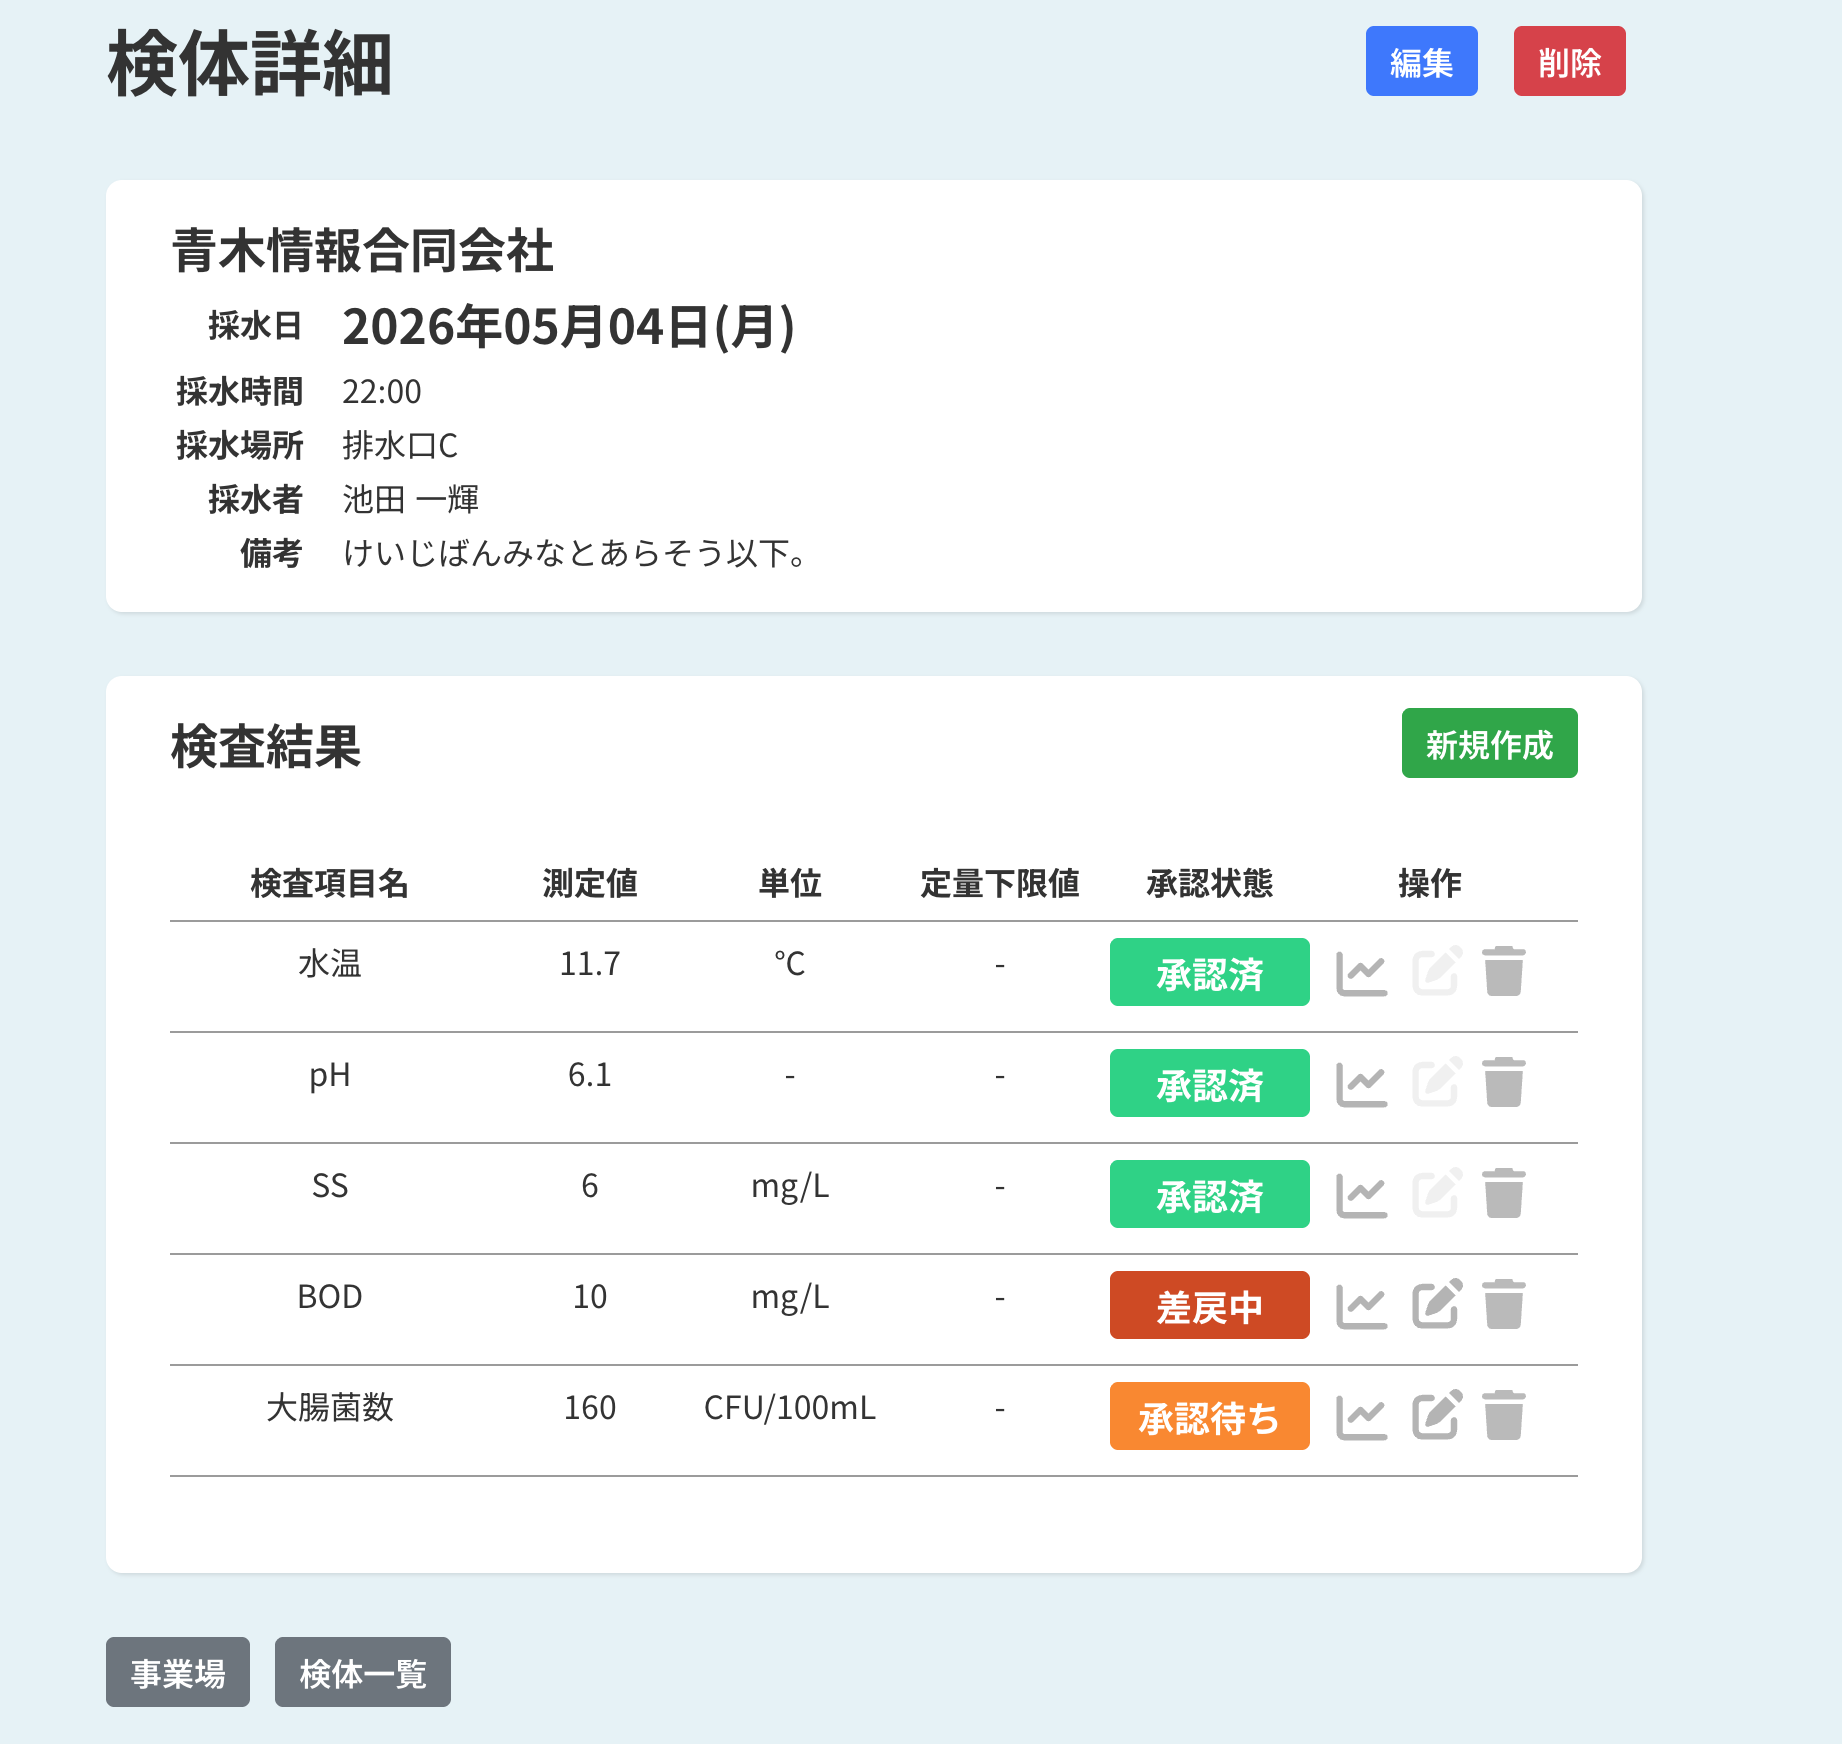
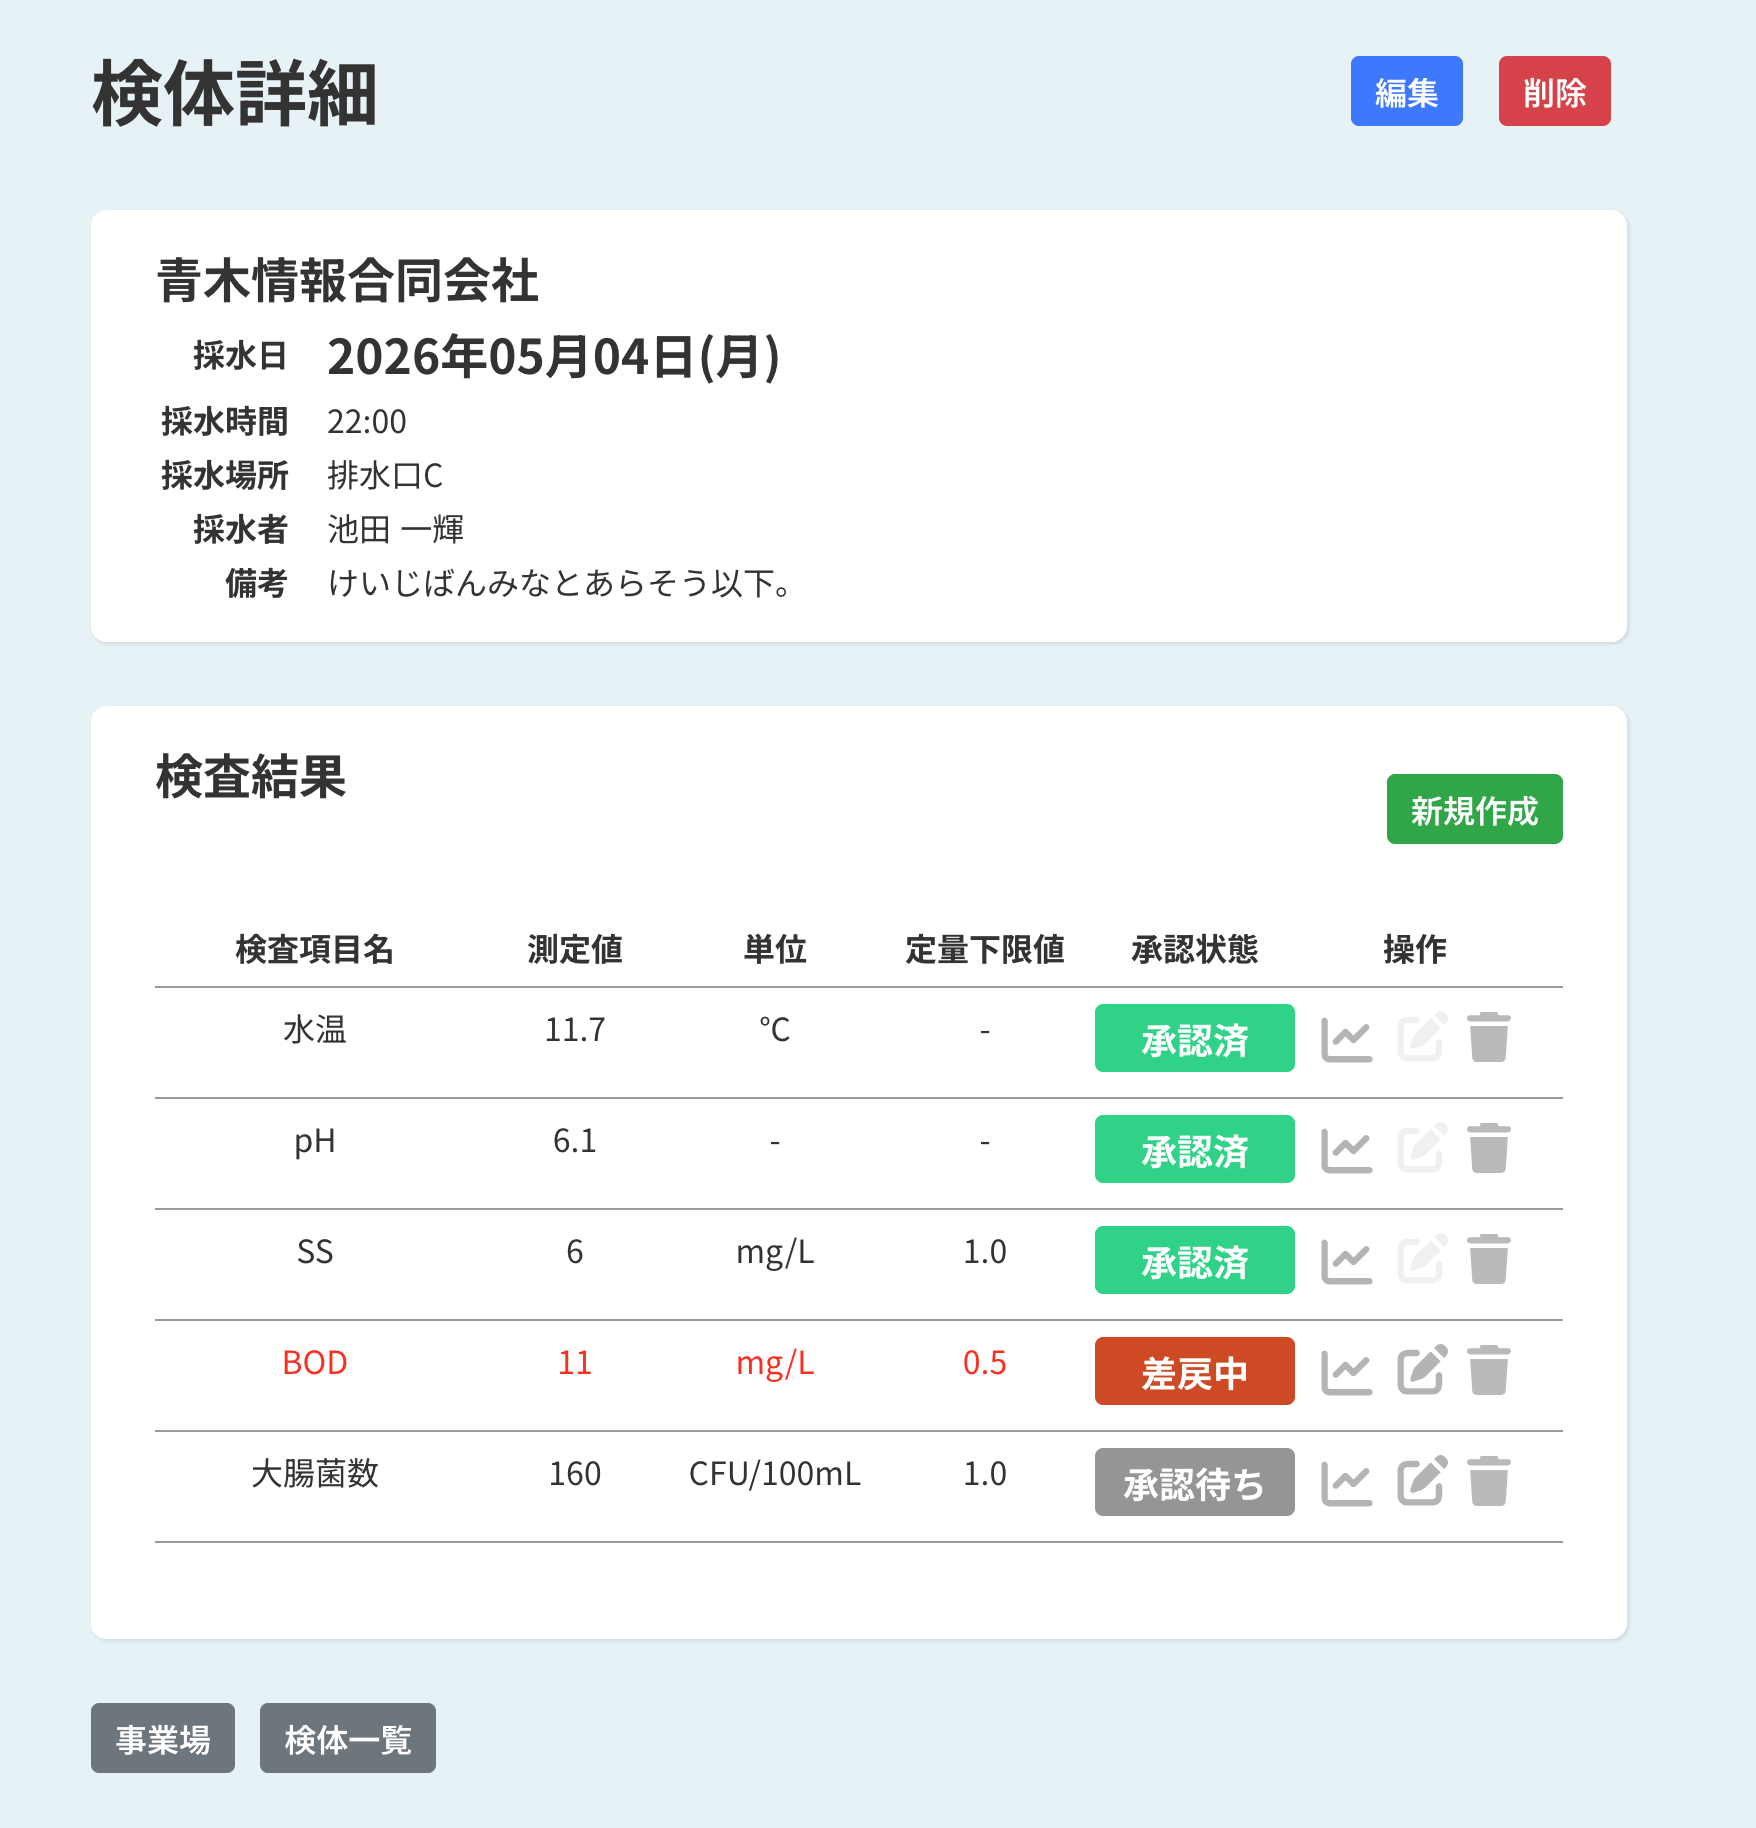
READMEの更新

diff --git a/README.md b/README.md
@@ -1,5 +1,9 @@
 # 水質検査データ管理システム
-<img src="images/toppage.png" width="600">
+
+<img src="images/login.png" width="600">
+
+アプリURL<br>
+https://water-quality-data-app-fd3bad0a3be9.herokuapp.com/
 
 ## はじめに
 
@@ -8,16 +12,18 @@
 会社の方針で、今後Microsoft Accessが使用不可となることが決まっており、その後継として当アプリの開発に着手しました。<br>
 また、再構築にあたって、ユーザー管理や承認などの機能拡充を行い、より高度なアプリケーションとして開発しました。
 <br>
+
 ## このアプリについて
 
 - 事業場から出る排水の水質検査データを管理します。
-- 事業場ごとに採水日とその検査データを保存できます。
+- 事業場別に採水日ごとの検査データを保存できます。
 - 検査項目は検査項目マスタで追加できます。
 - 管理者による検査結果の承認履歴を可視化しています。
-- 係の職員のみの使用を想定しているため、権限が付与されたユーザーのみがログインできます。（ポートフォリオ公開用として、一般ユーザーでも可能、ユーザー管理ページへのアクセス権を制限しています。）  
-<br>
+- 係の職員のみの使用を想定しているため、権限が付与されたユーザーのみがログインできます。（ポートフォリオ公開用として、一般ユーザーでもログイン可能、ユーザー管理ページへのアクセス権を制限しています。）  
+  <br>
 
 ## 主な使用技術
+
 ![Static Badge](https://img.shields.io/badge/Ruby-3.3.2-red)
 ![Static Badge](https://img.shields.io/badge/Rails-7.2.2.2-red)
 ![Static Badge](https://img.shields.io/badge/HTML5-orange)
@@ -43,15 +49,15 @@
 
 ## アプリ機能
 
-| 機能 | 詳細 |
-| --- | --- |
-| 事業場管理 | 事業場一覧表示、個別事業場の詳細表示。一覧では文字列で絞り込みが可能。<br>作成・編集・削除が可能 |
-| 　- 検体 | 事業場ごとに検体を複数登録できる。編集・削除も可能 |
+| 機能           | 詳細                                                                                                                                                                                                         |
+| -------------- | ------------------------------------------------------------------------------------------------------------------------------------------------------------------------------------------------------------ |
+| 事業場管理     | 事業場一覧表示、個別事業場の詳細表示。一覧では文字列で絞り込みが可能。<br>作成・編集・削除が可能                                                                                                             |
+| 　- 検体       | 事業場ごとに検体を複数登録できる。編集・削除も可能                                                                                                                                                           |
 | 　　- 検査結果 | 検体ごとに複数の検査項目の結果を登録できる。編集・削除も可能。<br>基準を超過したものは赤色表示。<br>詳細ページではその事業場の同一検査項目について直近20検体分の結果・<br>平均・最大・最小値とグラフを表示。 |
-| 検査項目マスタ | 検査項目を追加・編集・削除できる。検査結果ページでの表示順を指定できる。 |
-| データ入力 | 検体データを事業場で分けずに新しい順に一覧表示。最新の検査結果の入力に便利。<br>ここから検体の新規登録も可能 |
-| ユーザー管理 | 本来はユーザーのログイン権限を管理します。<br>現在は公開用にユーザー管理ページへのアクセス権限としています。<br>アクセス権があるユーザーは他のユーザーにアクセス権を付与（削除）することが<br>できます。 |
-| 承認 | 検査結果を入力後、管理者から承認を得る。<br>検査結果ごとに未承認・承認依頼・差戻し・承認済みのステータス表示<br>承認依頼・差戻しをトップページで通知<br>履歴を表示 |
+| 検査項目マスタ | 検査項目を追加・編集・削除できる。検査結果ページでの表示順を指定できる。                                                                                                                                     |
+| データ入力     | 検体データを事業場で分けずに新しい順に一覧表示。最新の検査結果の入力に便利。<br>ここから検体の新規登録も可能                                                                                                 |
+| ユーザー管理   | 本来はユーザーのログイン権限を管理します。<br>現在は公開用にユーザー管理ページへのアクセス権限としています。<br>アクセス権があるユーザーは他のユーザーにアクセス権を付与（削除）することが<br>できます。     |
+| 承認           | 検査結果を入力後、管理者から承認を得る。<br>検査結果ごとに未承認・承認依頼・差戻し・承認済みのステータス表示<br>承認依頼・差戻しをトップページで通知<br>履歴を表示                                           |
 
 <br>
     
@@ -127,12 +133,14 @@ erDiagram
     SAMPLES ||--o{ RESULTS : has
     TEST_ITEMS ||--o{ RESULTS : has
     RESULTS ||--o{ APPROVALS : has
+
 ```
 <br>
 
 ## 各ページの詳細
 
 ### トップページ
+<img src="images/toppage.png" width="600">
 
 - 承認依頼（差戻し）があれば件数と一覧へのリンクを通知
 - 直近５検体をすぐにアクセスできるよう「最近の検体」としてリンクを表示
@@ -144,12 +152,15 @@ erDiagram
 - 一覧の件数が25件を超えたときはページネーション
 
 ### 事業場詳細
+<img src="images/plant.png" width="400">
+
 - その事業場の検体を採取日ごとに表示
 
 ### 検体詳細
 <img src="images/sample.png" width="400">
+<img src="images/form.png" width="400">
 
-- formにおいて、セレクトボックスで検査項目を選ぶと単位を表示
+- formにおいて、セレクトボックスで検査項目を選ぶと単位も連動して表示
 - 基準値を超過した結果の文字色を赤で表示
 - 承認の状態を表示、承認操作が可能
 
@@ -161,23 +172,27 @@ erDiagram
 - 承認の状態を表示、承認操作が可能。承認の履歴を表示
 
 ### 検査項目マスタ
+<img src="images/test_item.png" width="400">
 
-- こちらで登録した検査項目を、各検体の検査結果としてで選択できる。
+- 検査項目を登録できる。ここで登録した検査項目を、各検体で選択できる。
 - 検査項目ごとに基準値等を設定できる
 
 ### 検体一覧
+<img src="images/sample_list.png" width="400">
+<img src="images/sample_list-form.png" width="400">
 
-- 事業場に関わらず検体を一覧表示
+- 事業場に関わらず検体を採水日が新しい順に一覧表示。
 - 新規登録フォームの事業場を選択するセレクトボックスに絞り込み検索機能を実装
 
 ### ユーザー管理
+<img src="images/user.png" width="400">
 
 - Deviseを使用したユーザー認証
-- adminカラムを追加し、権限を付与されたものしかアクセスできないようにした。
+- adminカラムを追加し、権限を付与されたものしかユーザー管理ページにアクセスできないようにした。
 - アクセス権のあるユーザーは他のユーザーの権限を付与・削除できる。
 
 ## 工夫した点
-<img src="images/form.png" width="400">
 
 - Turbo frame、Turbo streamを使って新規登録、編集、削除を非同期化
 - 承認のバリデーション、権限設定を丁寧に行った。
+
